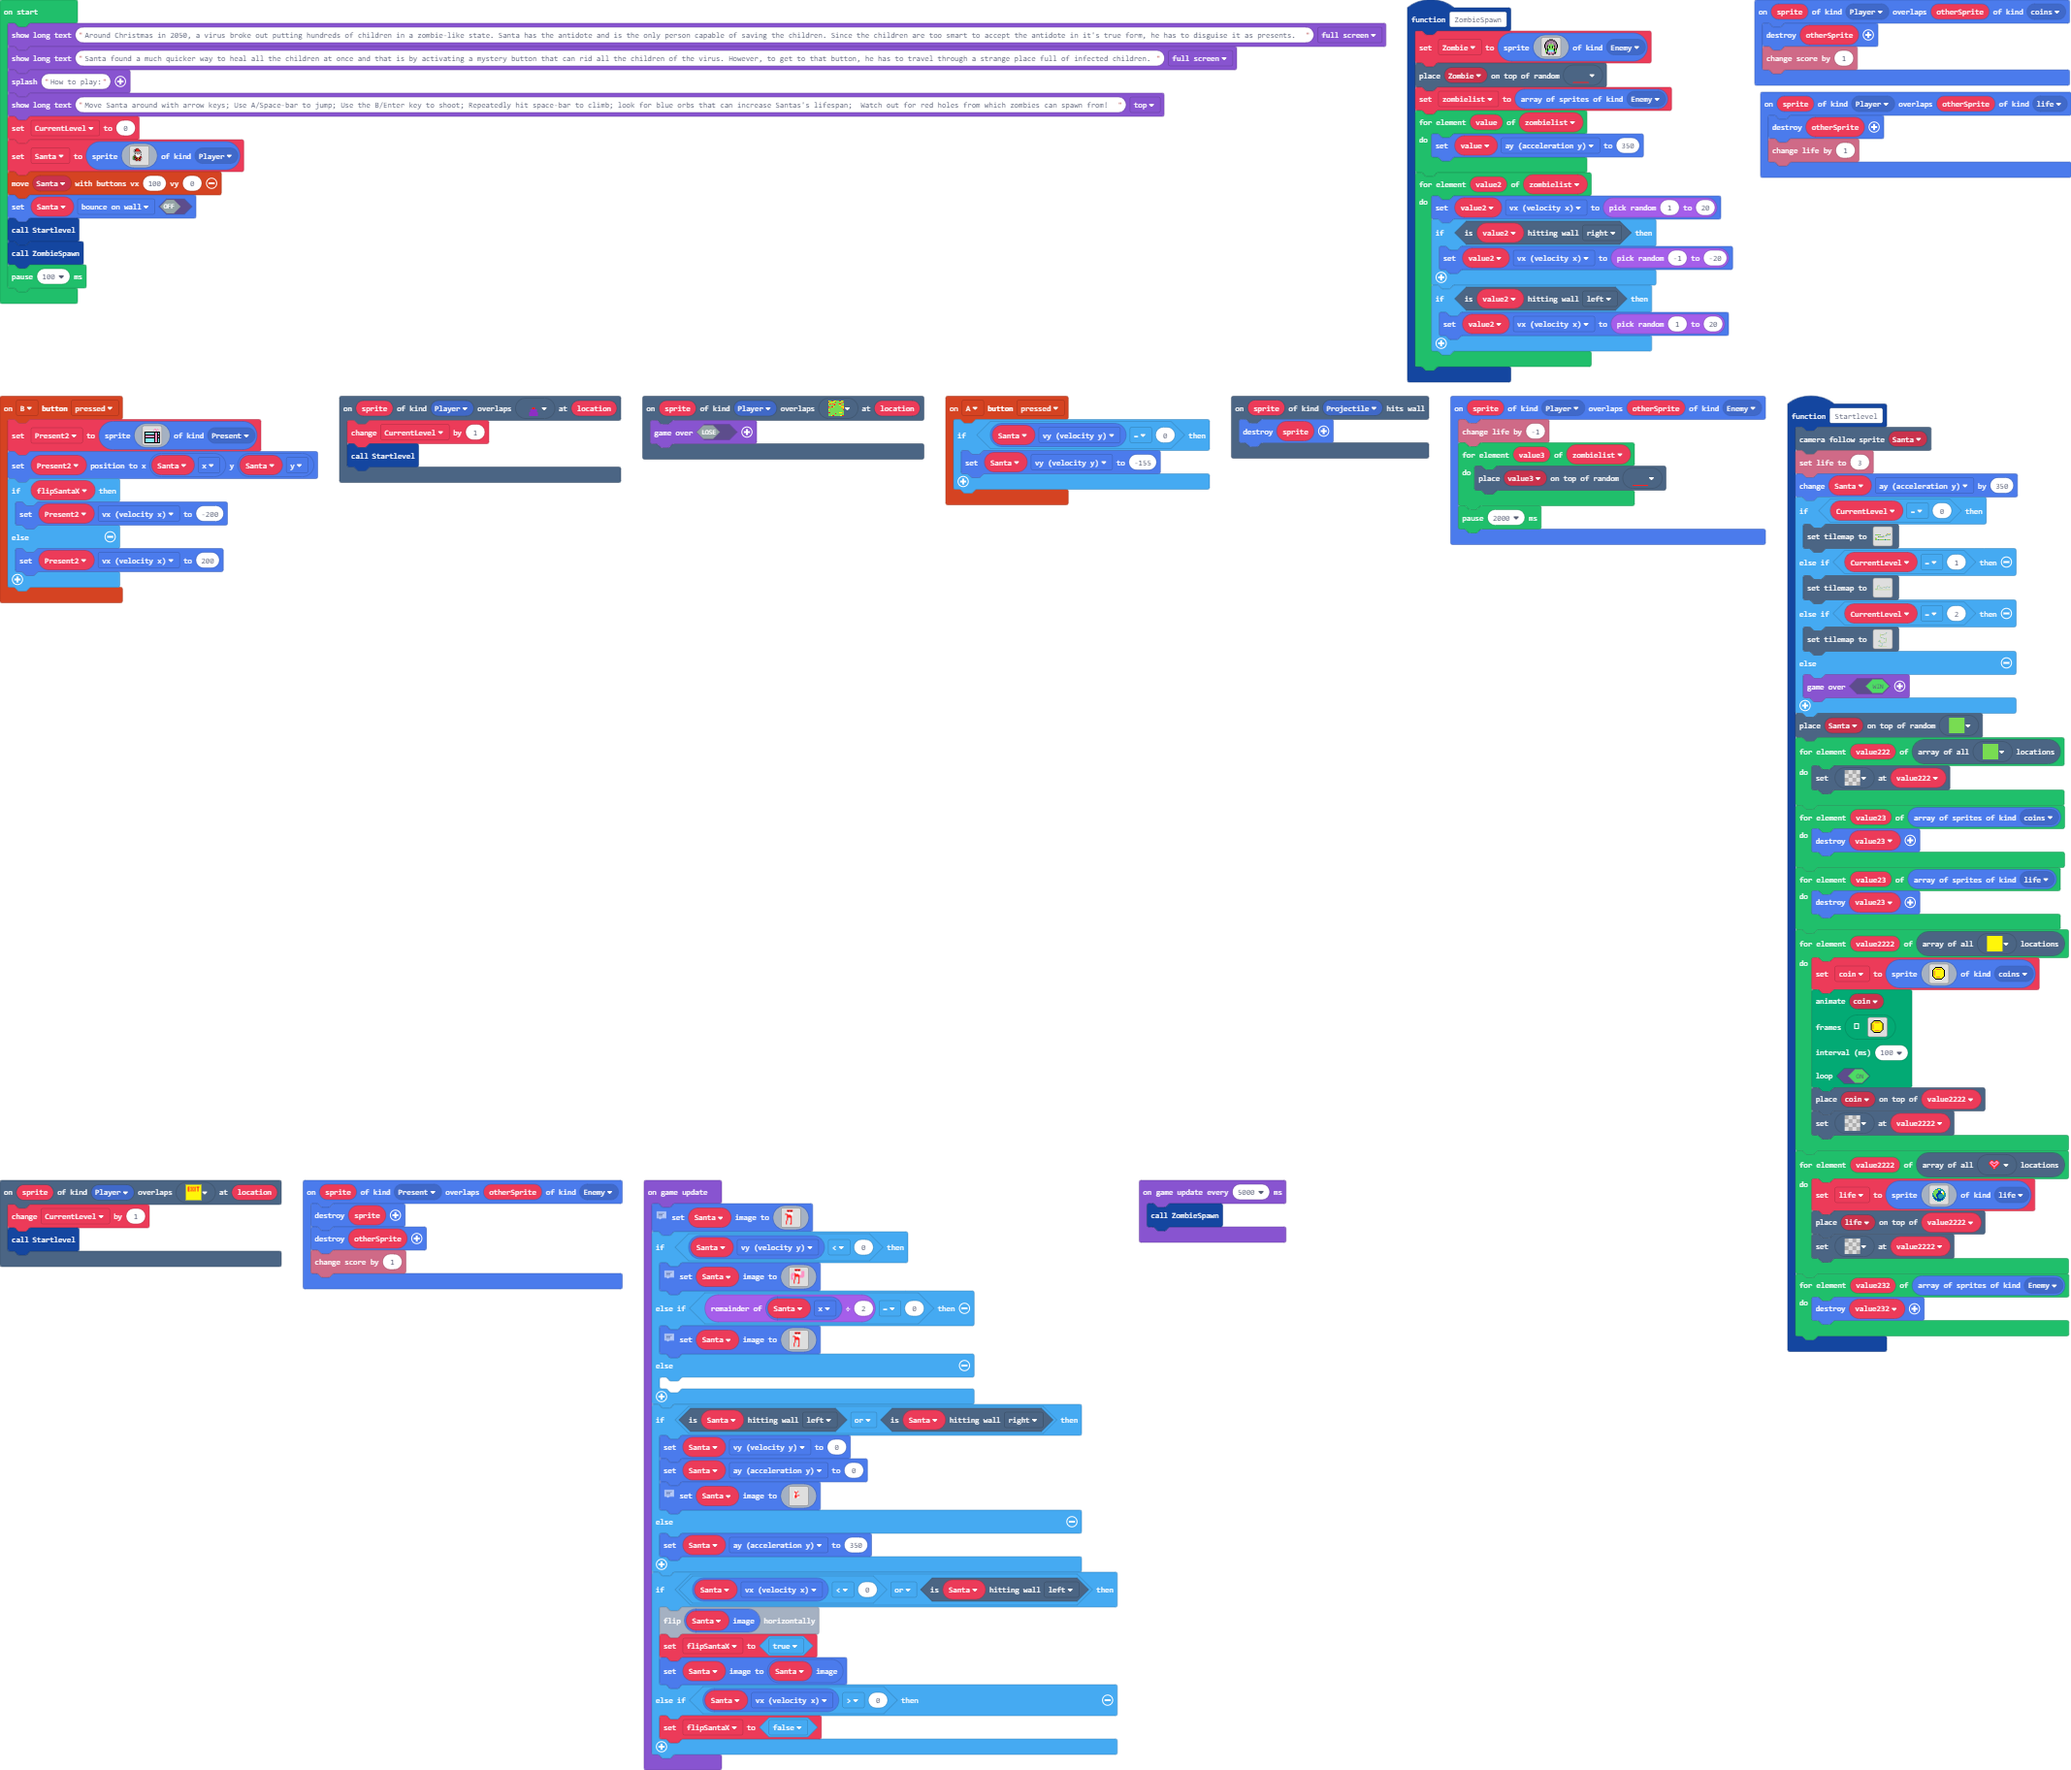
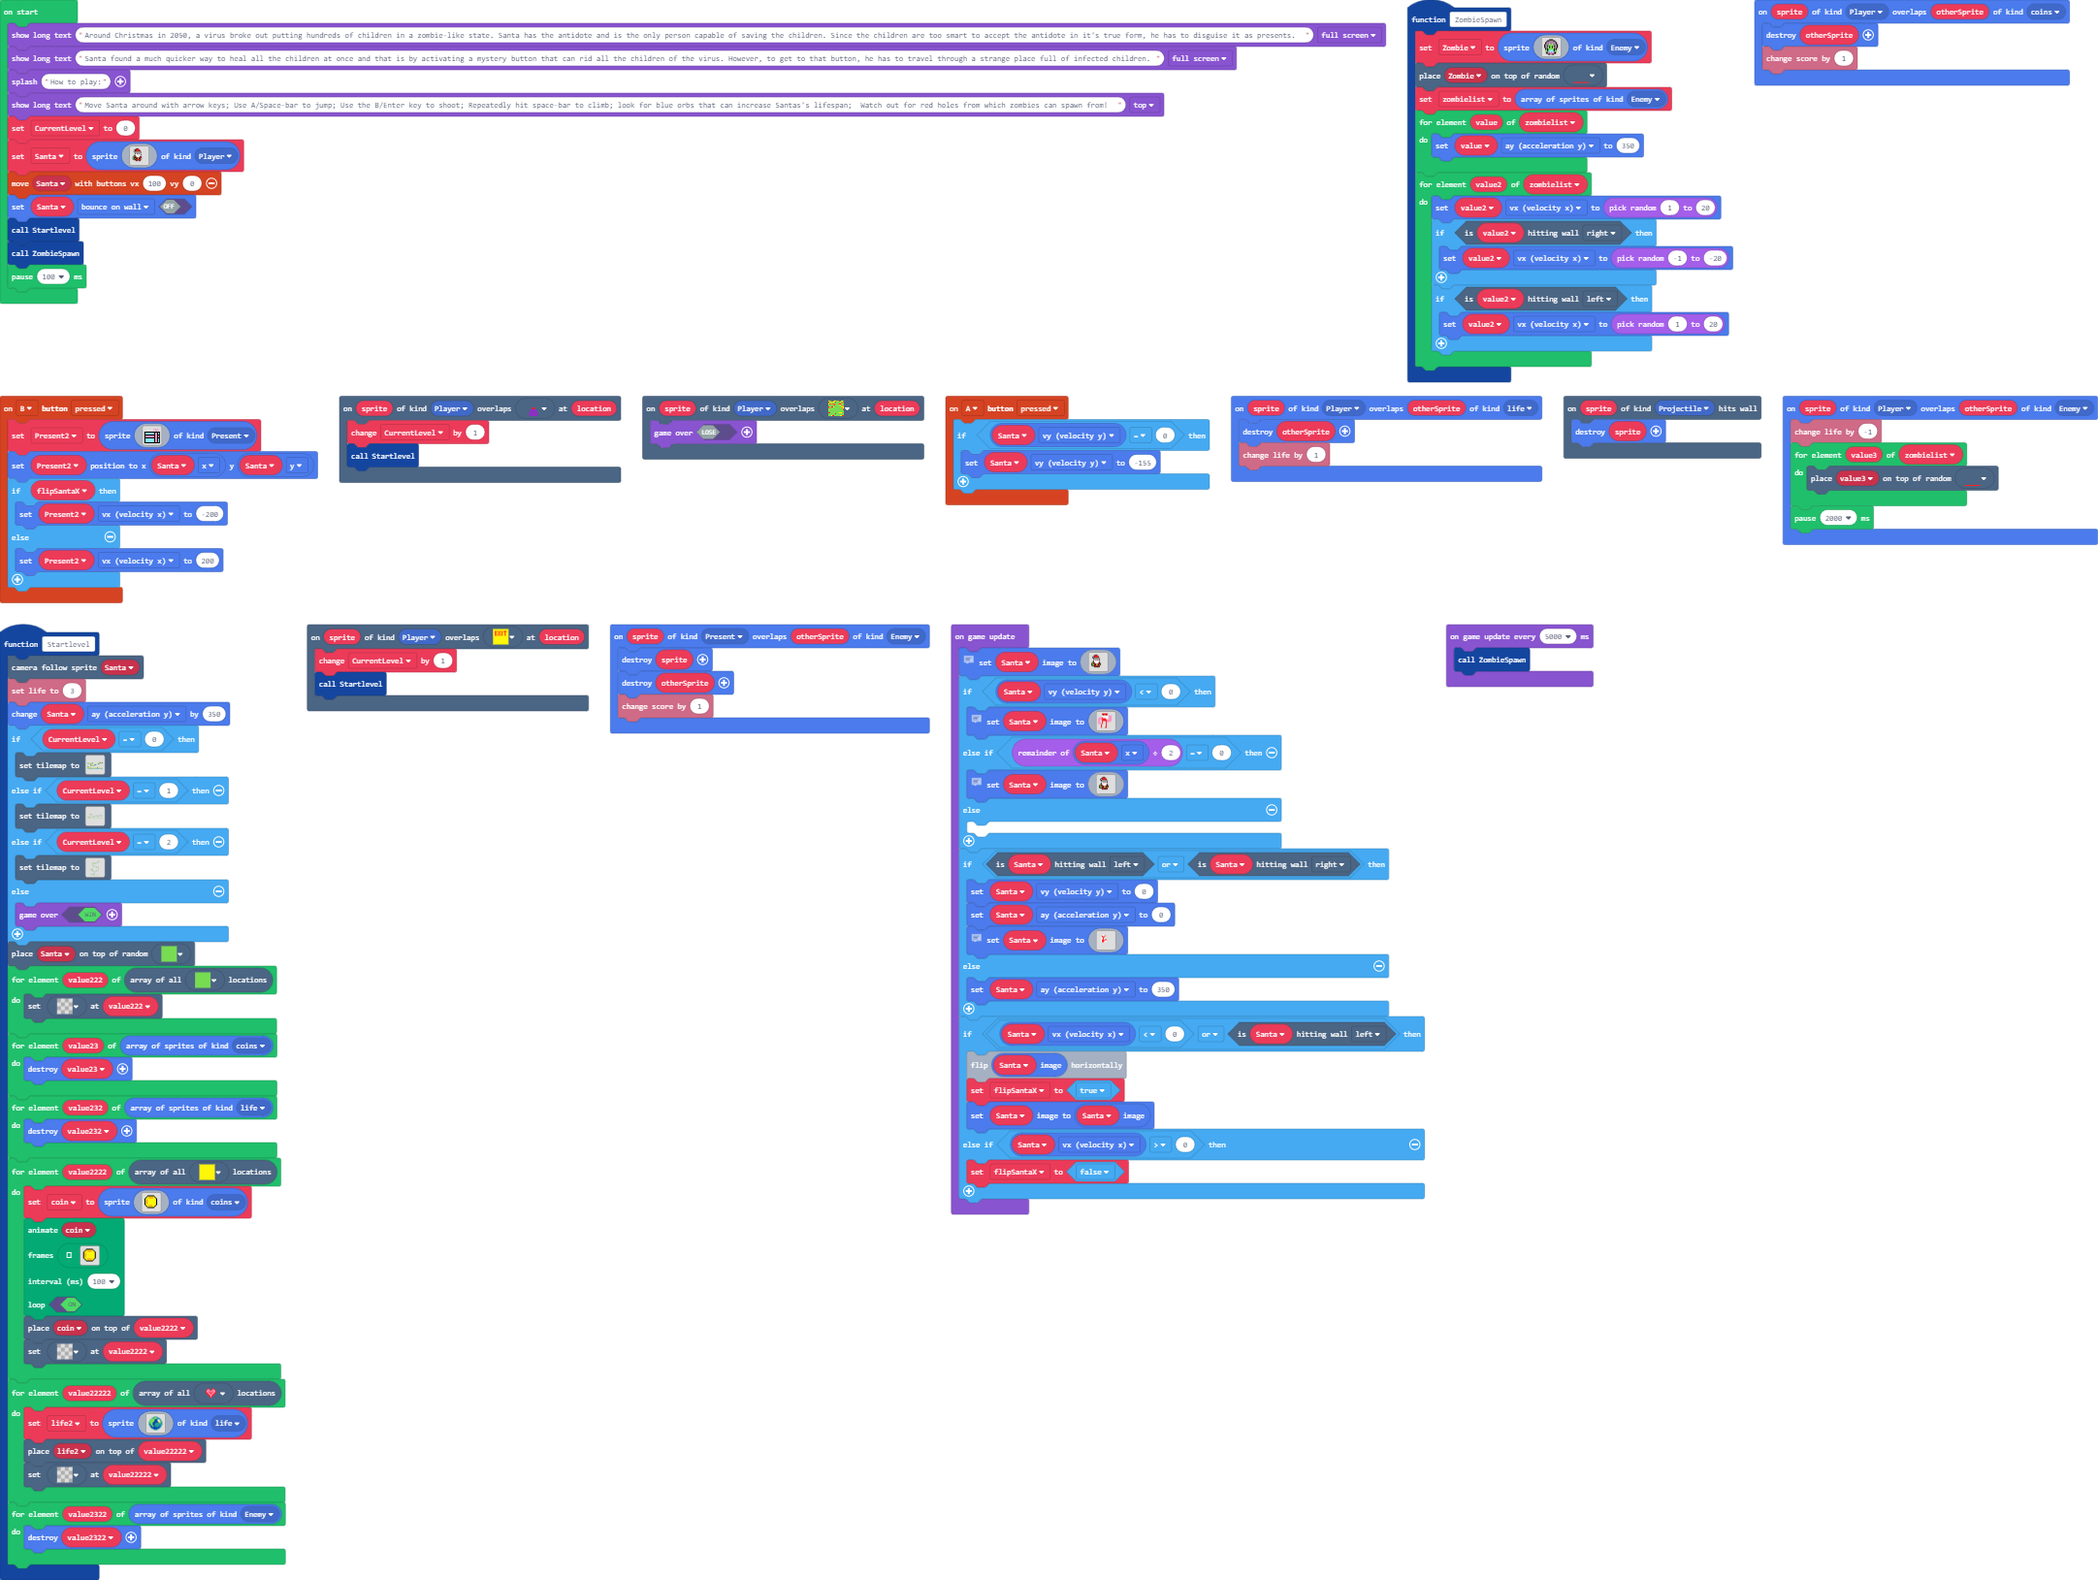
Update main.blocks, main.ts

diff --git a/main.ts b/main.ts
@@ -210,62 +210,6 @@ f b b 7 1 f 7 7 f 1 4 b b f
         }
     }
 }
-sprites.onOverlap(SpriteKind.Player, SpriteKind.coins, function (sprite, otherSprite) {
-    otherSprite.destroy()
-    info.changeScoreBy(1)
-})
-controller.B.onEvent(ControllerButtonEvent.Pressed, function () {
-    Present2 = sprites.create(img`
-. . . . . . . . . . . . . . . . 
-. . . . . . . . . . 3 3 . 3 . . 
-. . . . . . . . . 3 . 3 3 . 3 . 
-. . . . . . . . . . . . 3 . . . 
-f f f f f f f f f f f f f f f f 
-f 9 9 9 9 9 9 9 9 9 f 3 3 f 9 f 
-f 9 9 9 9 9 9 9 9 9 f 3 3 f 9 f 
-f f f f f f f f f f f 3 3 f f f 
-f 3 3 3 3 3 3 3 3 3 f 3 3 f 3 f 
-f 3 3 3 3 3 3 3 3 3 f 3 3 f 3 f 
-f f f f f f f f f f f 3 3 f f f 
-f 9 9 9 9 9 9 9 9 9 f 3 3 f 9 f 
-f 9 9 9 9 9 9 9 9 9 f 3 3 f 9 f 
-f 9 9 9 9 9 9 9 9 9 f 3 3 f 9 f 
-f 9 9 9 9 9 9 9 9 9 f 3 3 f 9 f 
-f f f f f f f f f f f f f f f f 
-`, SpriteKind.Present)
-    Present2.setPosition(Santa.x, Santa.y)
-    if (flipSantaX) {
-        Present2.vx = -200
-    } else {
-        Present2.vx = 200
-    }
-})
-scene.onOverlapTile(SpriteKind.Player, myTiles.tile5, function (sprite, location) {
-    CurrentLevel += 1
-    Startlevel()
-})
-scene.onOverlapTile(SpriteKind.Player, myTiles.tile6, function (sprite, location) {
-    game.over(false)
-})
-controller.A.onEvent(ControllerButtonEvent.Pressed, function () {
-    if (Santa.vy == 0) {
-        Santa.vy = -155
-    }
-})
-sprites.onOverlap(SpriteKind.Player, SpriteKind.life, function (sprite, otherSprite) {
-    otherSprite.destroy()
-    info.changeLifeBy(1)
-})
-scene.onHitWall(SpriteKind.Projectile, function (sprite) {
-    sprite.destroy()
-})
-sprites.onOverlap(SpriteKind.Player, SpriteKind.Enemy, function (sprite, otherSprite) {
-    info.changeLifeBy(-1)
-    for (let value3 of zombielist) {
-        tiles.placeOnRandomTile(value3, myTiles.tile3)
-    }
-    pause(2000)
-})
 function Startlevel () {
     scene.cameraFollowSprite(Santa)
     info.setLife(3)
@@ -386,8 +330,8 @@ function Startlevel () {
     for (let value23 of sprites.allOfKind(SpriteKind.coins)) {
         value23.destroy()
     }
-    for (let value23 of sprites.allOfKind(SpriteKind.life)) {
-        value23.destroy()
+    for (let value232 of sprites.allOfKind(SpriteKind.life)) {
+        value232.destroy()
     }
     for (let value2222 of tiles.getTilesByType(myTiles.tile7)) {
         coin = sprites.create(img`
@@ -570,8 +514,8 @@ function Startlevel () {
         tiles.placeOnTile(coin, value2222)
         tiles.setTileAt(value2222, myTiles.tile0)
     }
-    for (let value2222 of tiles.getTilesByType(myTiles.tile8)) {
-        life = sprites.create(img`
+    for (let value22222 of tiles.getTilesByType(myTiles.tile8)) {
+        life2 = sprites.create(img`
 . . . . . . . . . . . . . . . . 
 . . . . . . 6 6 6 6 . . . . . . 
 . . . . 6 6 6 5 5 6 6 6 . . . . 
@@ -589,13 +533,69 @@ function Startlevel () {
 . . . . . . 6 6 6 6 . . . . . . 
 . . . . . . . . . . . . . . . . 
 `, SpriteKind.life)
-        tiles.placeOnTile(life, value2222)
-        tiles.setTileAt(value2222, myTiles.tile0)
+        tiles.placeOnTile(life2, value22222)
+        tiles.setTileAt(value22222, myTiles.tile0)
     }
-    for (let value232 of sprites.allOfKind(SpriteKind.Enemy)) {
-        value232.destroy()
+    for (let value2322 of sprites.allOfKind(SpriteKind.Enemy)) {
+        value2322.destroy()
     }
 }
+sprites.onOverlap(SpriteKind.Player, SpriteKind.coins, function (sprite, otherSprite) {
+    otherSprite.destroy()
+    info.changeScoreBy(1)
+})
+controller.B.onEvent(ControllerButtonEvent.Pressed, function () {
+    Present2 = sprites.create(img`
+. . . . . . . . . . . . . . . . 
+. . . . . . . . . . 3 3 . 3 . . 
+. . . . . . . . . 3 . 3 3 . 3 . 
+. . . . . . . . . . . . 3 . . . 
+f f f f f f f f f f f f f f f f 
+f 9 9 9 9 9 9 9 9 9 f 3 3 f 9 f 
+f 9 9 9 9 9 9 9 9 9 f 3 3 f 9 f 
+f f f f f f f f f f f 3 3 f f f 
+f 3 3 3 3 3 3 3 3 3 f 3 3 f 3 f 
+f 3 3 3 3 3 3 3 3 3 f 3 3 f 3 f 
+f f f f f f f f f f f 3 3 f f f 
+f 9 9 9 9 9 9 9 9 9 f 3 3 f 9 f 
+f 9 9 9 9 9 9 9 9 9 f 3 3 f 9 f 
+f 9 9 9 9 9 9 9 9 9 f 3 3 f 9 f 
+f 9 9 9 9 9 9 9 9 9 f 3 3 f 9 f 
+f f f f f f f f f f f f f f f f 
+`, SpriteKind.Present)
+    Present2.setPosition(Santa.x, Santa.y)
+    if (flipSantaX) {
+        Present2.vx = -200
+    } else {
+        Present2.vx = 200
+    }
+})
+scene.onOverlapTile(SpriteKind.Player, myTiles.tile5, function (sprite, location) {
+    CurrentLevel += 1
+    Startlevel()
+})
+scene.onOverlapTile(SpriteKind.Player, myTiles.tile6, function (sprite, location) {
+    game.over(false)
+})
+controller.A.onEvent(ControllerButtonEvent.Pressed, function () {
+    if (Santa.vy == 0) {
+        Santa.vy = -155
+    }
+})
+sprites.onOverlap(SpriteKind.Player, SpriteKind.life, function (sprite, otherSprite) {
+    otherSprite.destroy()
+    info.changeLifeBy(1)
+})
+scene.onHitWall(SpriteKind.Projectile, function (sprite) {
+    sprite.destroy()
+})
+sprites.onOverlap(SpriteKind.Player, SpriteKind.Enemy, function (sprite, otherSprite) {
+    info.changeLifeBy(-1)
+    for (let value3 of zombielist) {
+        tiles.placeOnRandomTile(value3, myTiles.tile3)
+    }
+    pause(2000)
+})
 scene.onOverlapTile(SpriteKind.Player, myTiles.tile2, function (sprite, location) {
     CurrentLevel += 1
     Startlevel()
@@ -605,10 +605,10 @@ sprites.onOverlap(SpriteKind.Present, SpriteKind.Enemy, function (sprite, otherS
     otherSprite.destroy()
     info.changeScoreBy(1)
 })
-let life: Sprite = null
-let coin: Sprite = null
 let flipSantaX = false
 let Present2: Sprite = null
+let life2: Sprite = null
+let coin: Sprite = null
 let zombielist: Sprite[] = []
 let Zombie: Sprite = null
 let Santa: Sprite = null
@@ -660,22 +660,38 @@ pause(100)
 game.onUpdate(function () {
     // Basic Santa sprite (walking/standing)
     Santa.setImage(img`
-. . . . 2 2 2 2 2 2 . . . . . . 
-. . . . 2 f 2 2 f 2 . . . . . . 
-. . . . 1 1 1 1 1 1 . . . . . . 
-. . . . 1 1 1 1 1 1 . . . . . . 
-. . 2 2 2 1 1 1 1 1 . . . . . . 
-. . . . 2 2 2 2 1 1 . . . . . . 
-. . . . 2 2 2 2 2 . . . . . . . 
-. . . . 2 2 2 2 2 . . . . . . . 
-. . . . 2 . . . 2 . . . . . . . 
-. . . . 2 . . . 2 . . . . . . . 
-. . . . 2 . . . 2 . . . . . . . 
-. . . 2 . . . . 2 . . . . . . . 
-. . . 2 . . . . 2 . . . . . . . 
-. . . 2 . . . . 2 . . . . . . . 
-. . . 2 . . . 2 2 . . . . . . . 
-. . . . . . . . . . . . . . . . 
+. . . . . . . . . . . . . . . . . . . . . . . . . . . . . . . . 
+. . . . . . . . . f f f f f . . . . . . . . . . . . . . . . . . 
+. . . . . . . . f 2 2 2 2 2 f . . . . . . . . . . . . . . . . . 
+. . . . . . . f 2 2 2 2 2 2 2 f . . . . . . . . . . . . . . . . 
+. . . . . f f f f f 2 2 2 2 2 2 f . . . . . . . . . . . . . . . 
+. . . . f 1 1 f 2 2 2 2 2 2 2 2 2 f . . . . . . . . . . . . . . 
+. . . . f 1 1 f 2 2 2 2 2 2 2 2 2 f . . . . . . . . . . . . . . 
+. . . . f 1 f f f f f f f f f f f f f . . . . . . . . . . . . . 
+. . . . . f f 1 1 1 1 1 1 1 1 1 1 1 1 f . . . . . . . . . . . . 
+. . . . . . f 1 1 1 1 1 1 1 1 1 1 1 1 f . . . . . . . . . . . . 
+. . . . . . . f f f f f f f f f f f f . . . . . . . . . . . . . 
+. . . . . . . f 1 1 d d d d d d d 1 f . . . . . . . . . . . . . 
+. . . . . . . f 1 1 d f d d d f d 1 f . . . . . . . . . . . . . 
+. . . . . . f 1 1 1 3 d d 2 d d 3 1 1 f . . . . . . . . . . . . 
+. . . . . . f 1 1 1 1 1 1 1 1 1 1 1 1 f . . . . . . . . . . . . 
+. . . . . f f f 1 1 1 1 1 1 1 1 1 1 f . . . . . . . . . . . . . 
+. . . . f 7 7 f 1 1 1 1 1 1 1 1 1 1 f . . . . . . . . . . . . . 
+. . . f 7 7 f 2 f 1 1 1 1 1 1 1 1 f 2 f . . . . . . . . . . . . 
+. . f 7 7 f 2 f 2 f 1 1 1 1 1 1 f 2 f 2 f . . . . . . . . . . . 
+. . f 7 7 f 2 f 2 2 f f 1 1 1 f 2 2 f 2 f . . . . . . . . . . . 
+. . f 7 7 f 2 f 2 2 2 2 f f f 2 2 2 f 2 f . . . . . . . . . . . 
+. . f 7 7 f 1 f f f f f 5 5 5 f f f f 1 f . . . . . . . . . . . 
+. . f 7 7 f 1 1 f f f f 5 5 5 f f f 1 1 f . . . . . . . . . . . 
+. . f f 7 7 f f 2 2 2 2 2 2 2 2 2 2 f f . . . . . . . . . . . . 
+. . . . f f f f f 2 2 2 f f f 2 2 2 f . . . . . . . . . . . . . 
+. . . . . . . . f 2 2 2 f . f 2 2 2 f . . . . . . . . . . . . . 
+. . . . . . . . f f f f f . f f f f f . . . . . . . . . . . . . 
+. . . . . . . . . . . . . . . . . . . . . . . . . . . . . . . . 
+. . . . . . . . . . . . . . . . . . . . . . . . . . . . . . . . 
+. . . . . . . . . . . . . . . . . . . . . . . . . . . . . . . . 
+. . . . . . . . . . . . . . . . . . . . . . . . . . . . . . . . 
+. . . . . . . . . . . . . . . . . . . . . . . . . . . . . . . . 
 `)
     if (Santa.vy < 0) {
         // Santa jumping sprite image below
@@ -700,22 +716,38 @@ game.onUpdate(function () {
     } else if (Santa.x % 2 == 0) {
         // Basic Santa sprite (walking/standing)
         Santa.setImage(img`
-. . . . 2 2 2 2 2 2 . . . . . . 
-. . . . 2 f 2 2 f 2 . . . . . . 
-. . . . 1 1 1 1 1 1 . . . . . . 
-. . . . 1 1 1 1 1 1 . . . . . . 
-. . 2 2 2 1 1 1 1 1 . . . . . . 
-. . . . 2 2 2 2 1 1 . . . . . . 
-. . . . 2 2 2 2 2 . . . . . . . 
-. . . . 2 2 2 2 2 . . . . . . . 
-. . . . 2 . . . 2 . . . . . . . 
-. . . . 2 . . . 2 . . . . . . . 
-. . . . 2 . . . 2 . . . . . . . 
-. . . 2 . . . . 2 . . . . . . . 
-. . . 2 . . . . 2 . . . . . . . 
-. . . 2 . . . . 2 . . . . . . . 
-. . . 2 . . . 2 2 . . . . . . . 
-. . . . . . . . . . . . . . . . 
+. . . . . . . . . . . . . . . . . . . . . . . . . . . . . . . . 
+. . . . . . . . . f f f f f . . . . . . . . . . . . . . . . . . 
+. . . . . . . . f 2 2 2 2 2 f . . . . . . . . . . . . . . . . . 
+. . . . . . . f 2 2 2 2 2 2 2 f . . . . . . . . . . . . . . . . 
+. . . . . f f f f f 2 2 2 2 2 2 f . . . . . . . . . . . . . . . 
+. . . . f 1 1 f 2 2 2 2 2 2 2 2 2 f . . . . . . . . . . . . . . 
+. . . . f 1 1 f 2 2 2 2 2 2 2 2 2 f . . . . . . . . . . . . . . 
+. . . . f 1 f f f f f f f f f f f f f . . . . . . . . . . . . . 
+. . . . . f f 1 1 1 1 1 1 1 1 1 1 1 1 f . . . . . . . . . . . . 
+. . . . . . f 1 1 1 1 1 1 1 1 1 1 1 1 f . . . . . . . . . . . . 
+. . . . . . . f f f f f f f f f f f f . . . . . . . . . . . . . 
+. . . . . . . f 1 1 d d d d d d d 1 f . . . . . . . . . . . . . 
+. . . . . . . f 1 1 d f d d d f d 1 f . . . . . . . . . . . . . 
+. . . . . . f 1 1 1 3 d d 2 d d 3 1 1 f . . . . . . . . . . . . 
+. . . . . . f 1 1 1 1 1 1 1 1 1 1 1 1 f . . . . . . . . . . . . 
+. . . . . f f f 1 1 1 1 1 1 1 1 1 1 f . . . . . . . . . . . . . 
+. . . . f 7 7 f 1 1 1 1 1 1 1 1 1 1 f . . . . . . . . . . . . . 
+. . . f 7 7 f 2 f 1 1 1 1 1 1 1 1 f 2 f . . . . . . . . . . . . 
+. . f 7 7 f 2 f 2 f 1 1 1 1 1 1 f 2 f 2 f . . . . . . . . . . . 
+. . f 7 7 f 2 f 2 2 f f 1 1 1 f 2 2 f 2 f . . . . . . . . . . . 
+. . f 7 7 f 2 f 2 2 2 2 f f f 2 2 2 f 2 f . . . . . . . . . . . 
+. . f 7 7 f 1 f f f f f 5 5 5 f f f f 1 f . . . . . . . . . . . 
+. . f 7 7 f 1 1 f f f f 5 5 5 f f f 1 1 f . . . . . . . . . . . 
+. . f f 7 7 f f 2 2 2 2 2 2 2 2 2 2 f f . . . . . . . . . . . . 
+. . . . f f f f f 2 2 2 f f f 2 2 2 f . . . . . . . . . . . . . 
+. . . . . . . . f 2 2 2 f . f 2 2 2 f . . . . . . . . . . . . . 
+. . . . . . . . f f f f f . f f f f f . . . . . . . . . . . . . 
+. . . . . . . . . . . . . . . . . . . . . . . . . . . . . . . . 
+. . . . . . . . . . . . . . . . . . . . . . . . . . . . . . . . 
+. . . . . . . . . . . . . . . . . . . . . . . . . . . . . . . . 
+. . . . . . . . . . . . . . . . . . . . . . . . . . . . . . . . 
+. . . . . . . . . . . . . . . . . . . . . . . . . . . . . . . . 
 `)
     } else {
     	
